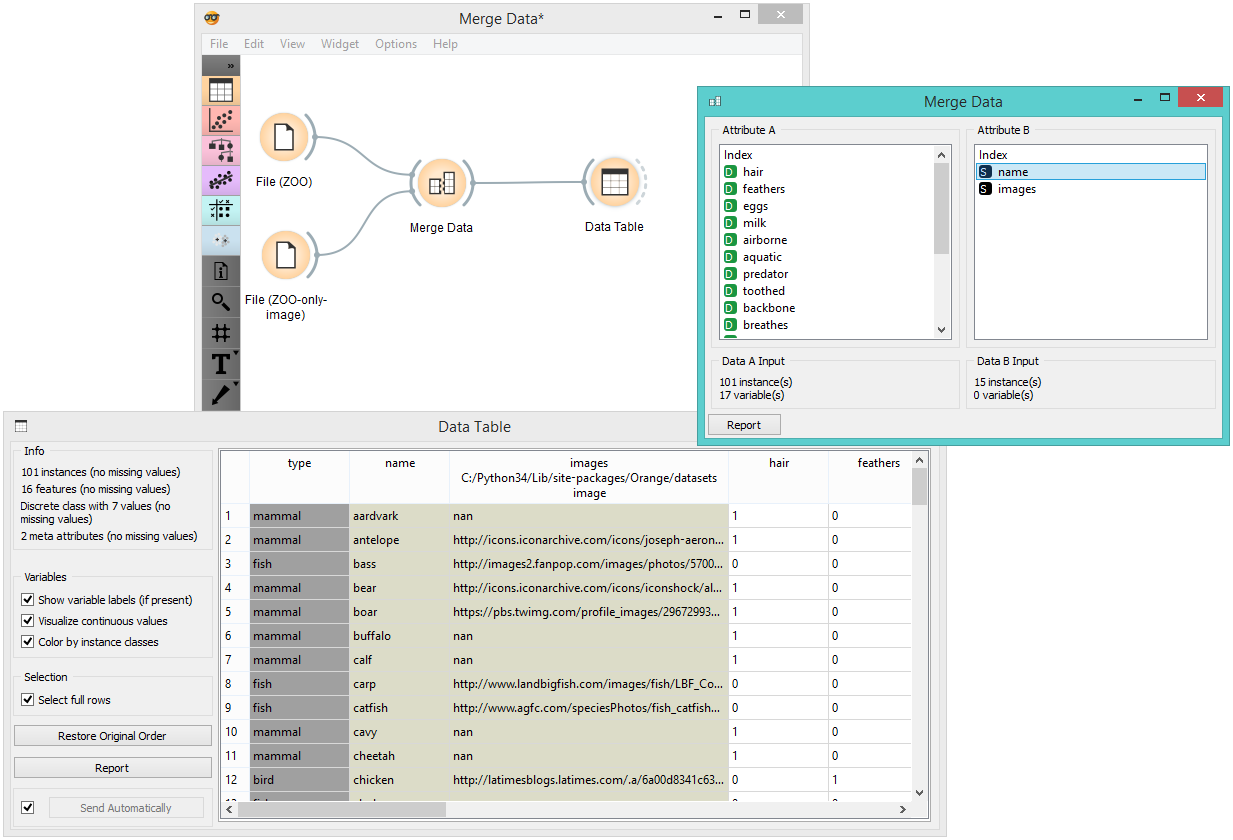
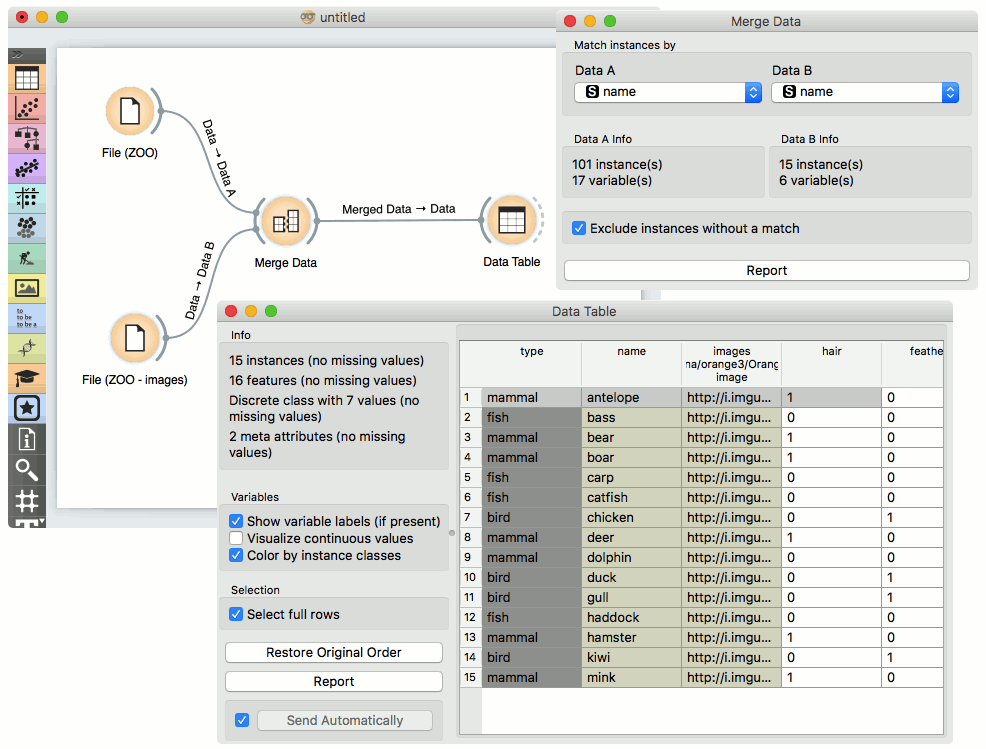
OWMergeData: Update documentation

diff --git a/source/widgets/data/mergedata.rst b/source/widgets/data/mergedata.rst
@@ -20,14 +20,9 @@ Signals
 
 **Outputs**:
 
--  **Merged Data A+B**
+-  **Merged Data**
 
    Instances from input data A to which attributes from input data B are
-   added.
-
--  **Merged Data B+A**
-
-   Instances from input data B to which attributes from input data A are
    added.
 
 Description
@@ -37,7 +32,7 @@ The **Merge Data** widget is used to horizontally merge two data sets, based
 on values of selected attributes. In the input, two data sets are
 required, A and B. The widget allows selection of an attribute from each
 domain, which will be used to perform the merging. The widget produces
-two outputs, A+B and B+A. A+B corresponds to instances from the input data A
+one output. It corresponds to instances from the input data A
 to which attributes from B are appended, and B+A to instances from B to
 which attributes from A are appended.
 
@@ -46,8 +41,7 @@ the value of the merging attribute from A is taken and instances from B
 are searched for matching values. If more than a single instance from B
 is found, the first one is taken and horizontally merged with the
 instance from A. If no instance from B matches the criterion, unknown
-values are assigned to the appended attributes. Similarly, B+A is
-constructed.
+values are assigned to the appended attributes.
 
 .. figure:: images/MergeData-stamped.png
 
@@ -55,7 +49,10 @@ constructed.
 2. List of comparable attributes from Data B
 3. Information on Data A
 4. Information on Data B
-5. Produce a report. 
+5. If checked, instances from B without the match are excluded form the output.
+   If not checked, instances from B without the match are assigned
+   unknown values to the appended attributes.
+6. Produce a report.
 
 Example
 -------
@@ -63,16 +60,21 @@ Example
 Merging two data sets results in appending new attributes to the
 original file, based on a selected common attribute. In the example
 below, we wanted to merge the **zoo.tab** file containing only factual
-data with :download:`zoo-only-images.tab <../data/zoo-only-images.tab>` containing
-only images. Both files share a common string attribute *names*. Now, we
+data with :download:`zoo-with-images.tab <../data/zoo-with-images.tab>`
+containing images. Both files share a common string attribute *names*. Now, we
 create a workflow connecting the two files. The *zoo.tab* data is
 connected to **Data A** input of the **Merge Data** widget, and the
-*zoo-only-images.tab* data to the **Data B** input. Both outputs of the
-**Merge Data** widget are then connected to the :doc:`Data Table <../data/datatable>` widget.
-In the latter, the **Merged Data A+B** channels are shown, where image attributes
+*zoo-with-images.tab* data to the **Data B** input. Outputs of the
+**Merge Data** widget is then connected to the :doc:`Data Table <../data/datatable>` widget.
+In the latter, the **Merged Data** channels are shown, where image attributes
 are added to the original data.
 
 .. figure:: images/MergeData-Example.png
+
+The case where we want to include all instances in the output, even those
+where no match by attribute *names* was found, is shown in the following workflow.
+
+.. figure:: images/MergeData-Example2.png
 
 Hint
 ----
